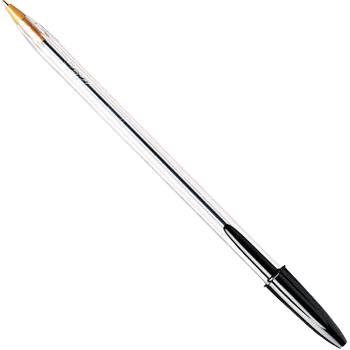
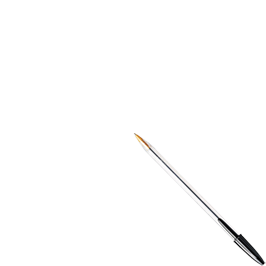
pen cursor

Changed region(s): [[0.0, 0.0, 1.0, 1.0]]

diff --git a/University Life/main.cpp b/University Life/main.cpp
@@ -8,7 +8,7 @@ int main(int argc, char *argv[]) {
   QApplication a(argc, argv);
   QPixmap pixmap(":/new/images/images/splash.png");
   a.setOverrideCursor(QCursor(
-      QPixmap(":/images/black-biro.png").scaled(32, 32, Qt::KeepAspectRatio)));
+      QPixmap(":/images/black-biro.png")));
   QSplashScreen splash(pixmap);
   splash.show();
   QTimer::singleShot(1500, &splash,
